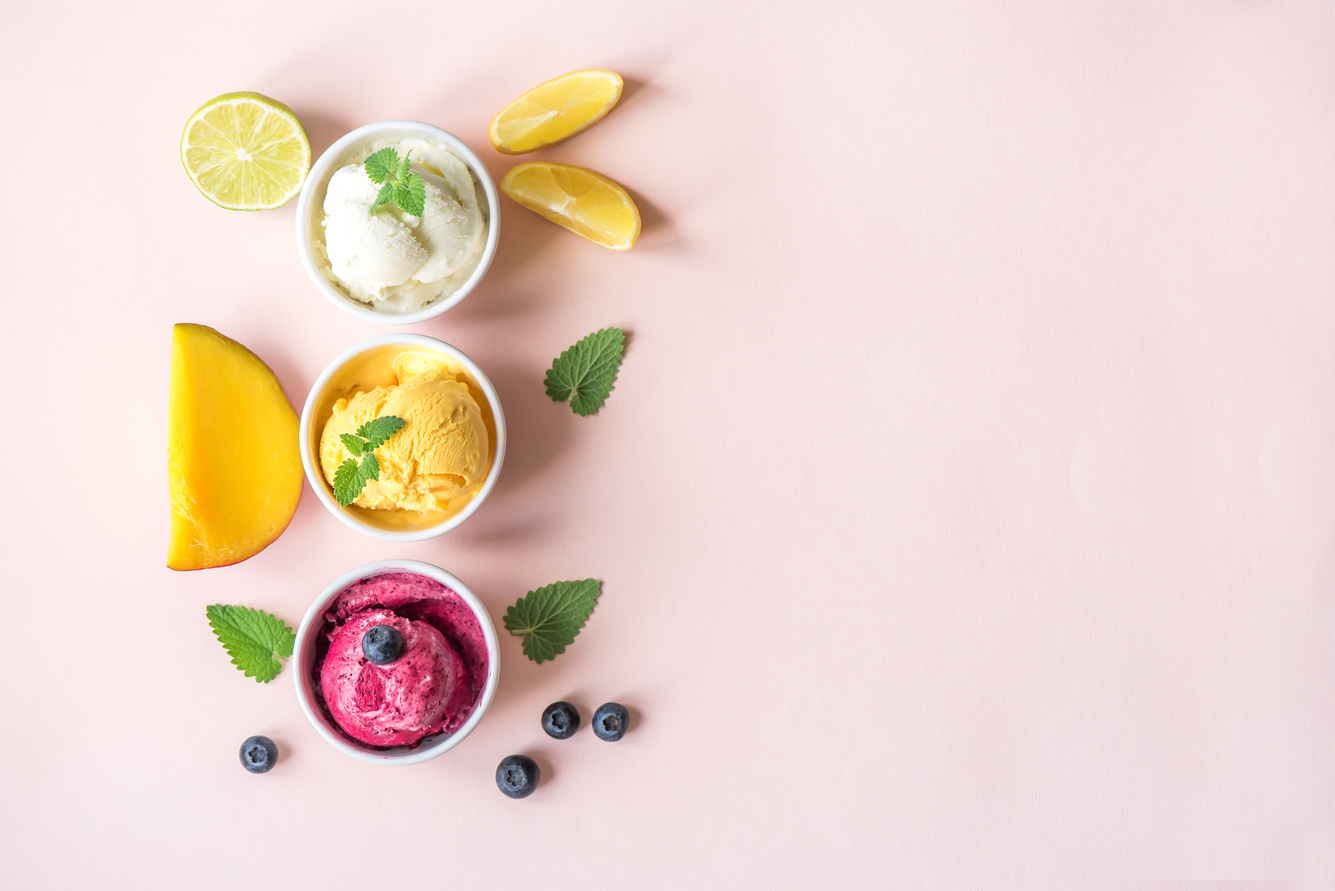
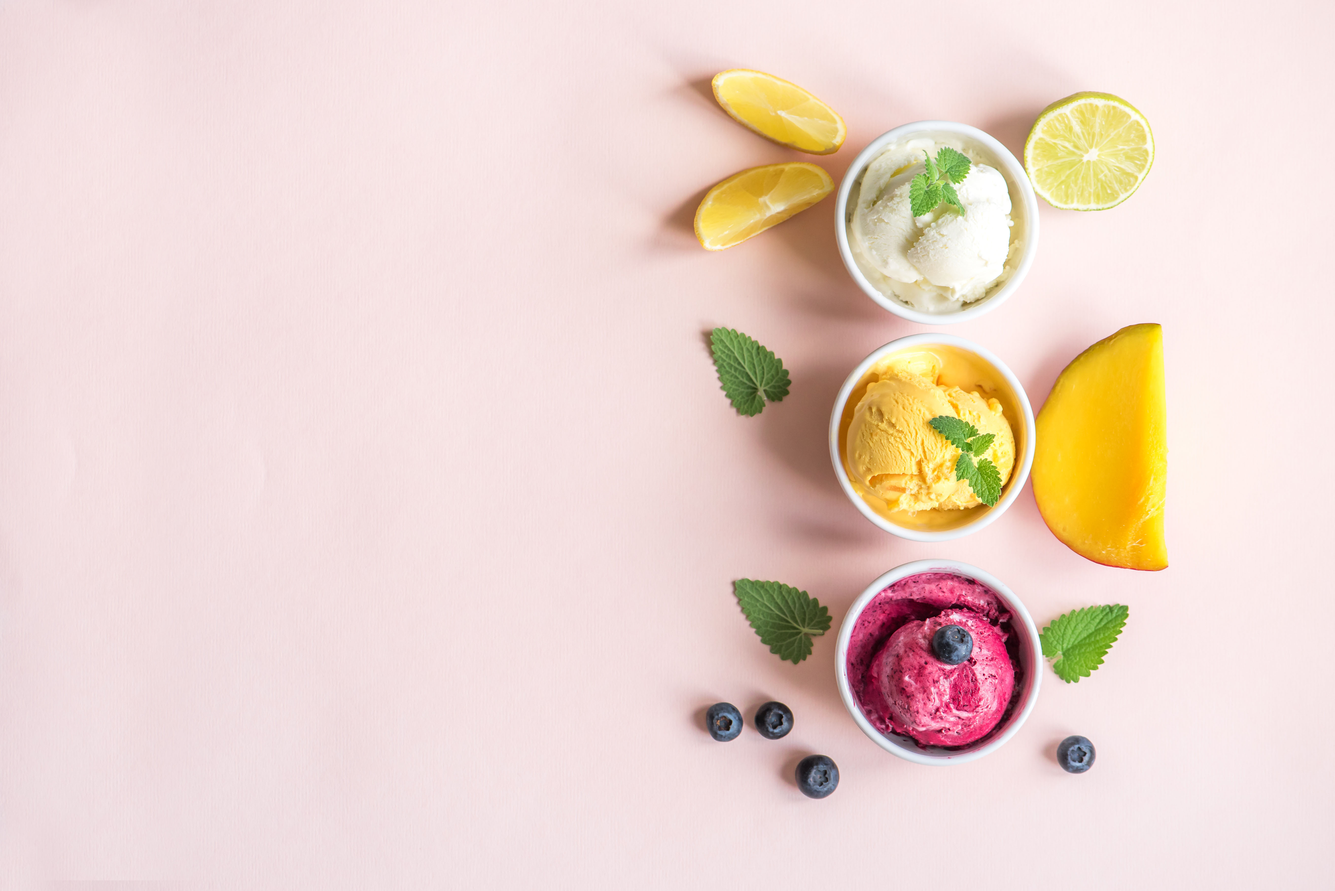
make about section (upload new bg).

diff --git a/index.html b/index.html
@@ -49,8 +49,10 @@
       <li>Twitter</li>
     </ul>
   </div>
+  <!-- Main Contents-->
   <div class="main" id="main">
     <div class="inner">
+      <!-- Top -->
       <section id="top" class="top">
         <div class="top_slider" id="top_slider">
           <img src="./img/items/top/top_slider_1_premium_berry.jpg" />
@@ -58,8 +60,28 @@
           <img src="./img/items/top/top_slider_3_premium_orange.jpeg" />
         </div>
       </section>
+      <!-- //Top -->
+      <!-- About -->
+      <section class="about" id="about">
+        <div class="inner">
+          <h1>ABOUT</h1>
+          <div class="container">
+            <p>アメリカ・カリフォルニア州で生まれた<br/>
+              アイス専門店、「Juicy Ice Cream」。<br/>
+              フルーツをふんだんに使用したカラフルなアイスで大人気。<br/>
+            <br/>
+            わたしたちのつくるアイスは、すべて合成着色料フリー。<br/>
+              素材がもつ色のみで生み出されています。<br/>
+            <br/>
+            2019年6月、日本・第一号店が六本木にオープン。<br/>
+            2020年4月、第二号店が渋谷にオープン予定です。</p>
+          </div>
+        </div>
+      </section>
+      <!-- //About-->
     </div>
   </div>
+  <!-- //Main Contents-->
   <!-- footer -->
   <footer id="footer">
   </footer>

diff --git a/css/main.css b/css/main.css
@@ -80,3 +80,27 @@ ul#sns_links_sp {
   height: 100vh;
   object-fit: cover;
 }
+
+/* about */
+#about {
+  width: 100%;
+  height: 100vh;
+  background: url(../img/bg/about_bg.jpeg);
+  background-size: cover;
+}
+#about .inner{
+  padding-top: 80px;
+}
+#about h1 {
+  font-family: "Arial Black", "Arial Bold", Gadget, sans-serif;
+  font-size: 60px;
+  line-height: 60px;
+  color: #555555;
+  margin-bottom: 60px;
+}
+#about p {
+  font-family: "ヒラギノ角ゴ ProN";
+  font-size: 24px;
+  line-height: 44px;
+  color: #555555;
+}
